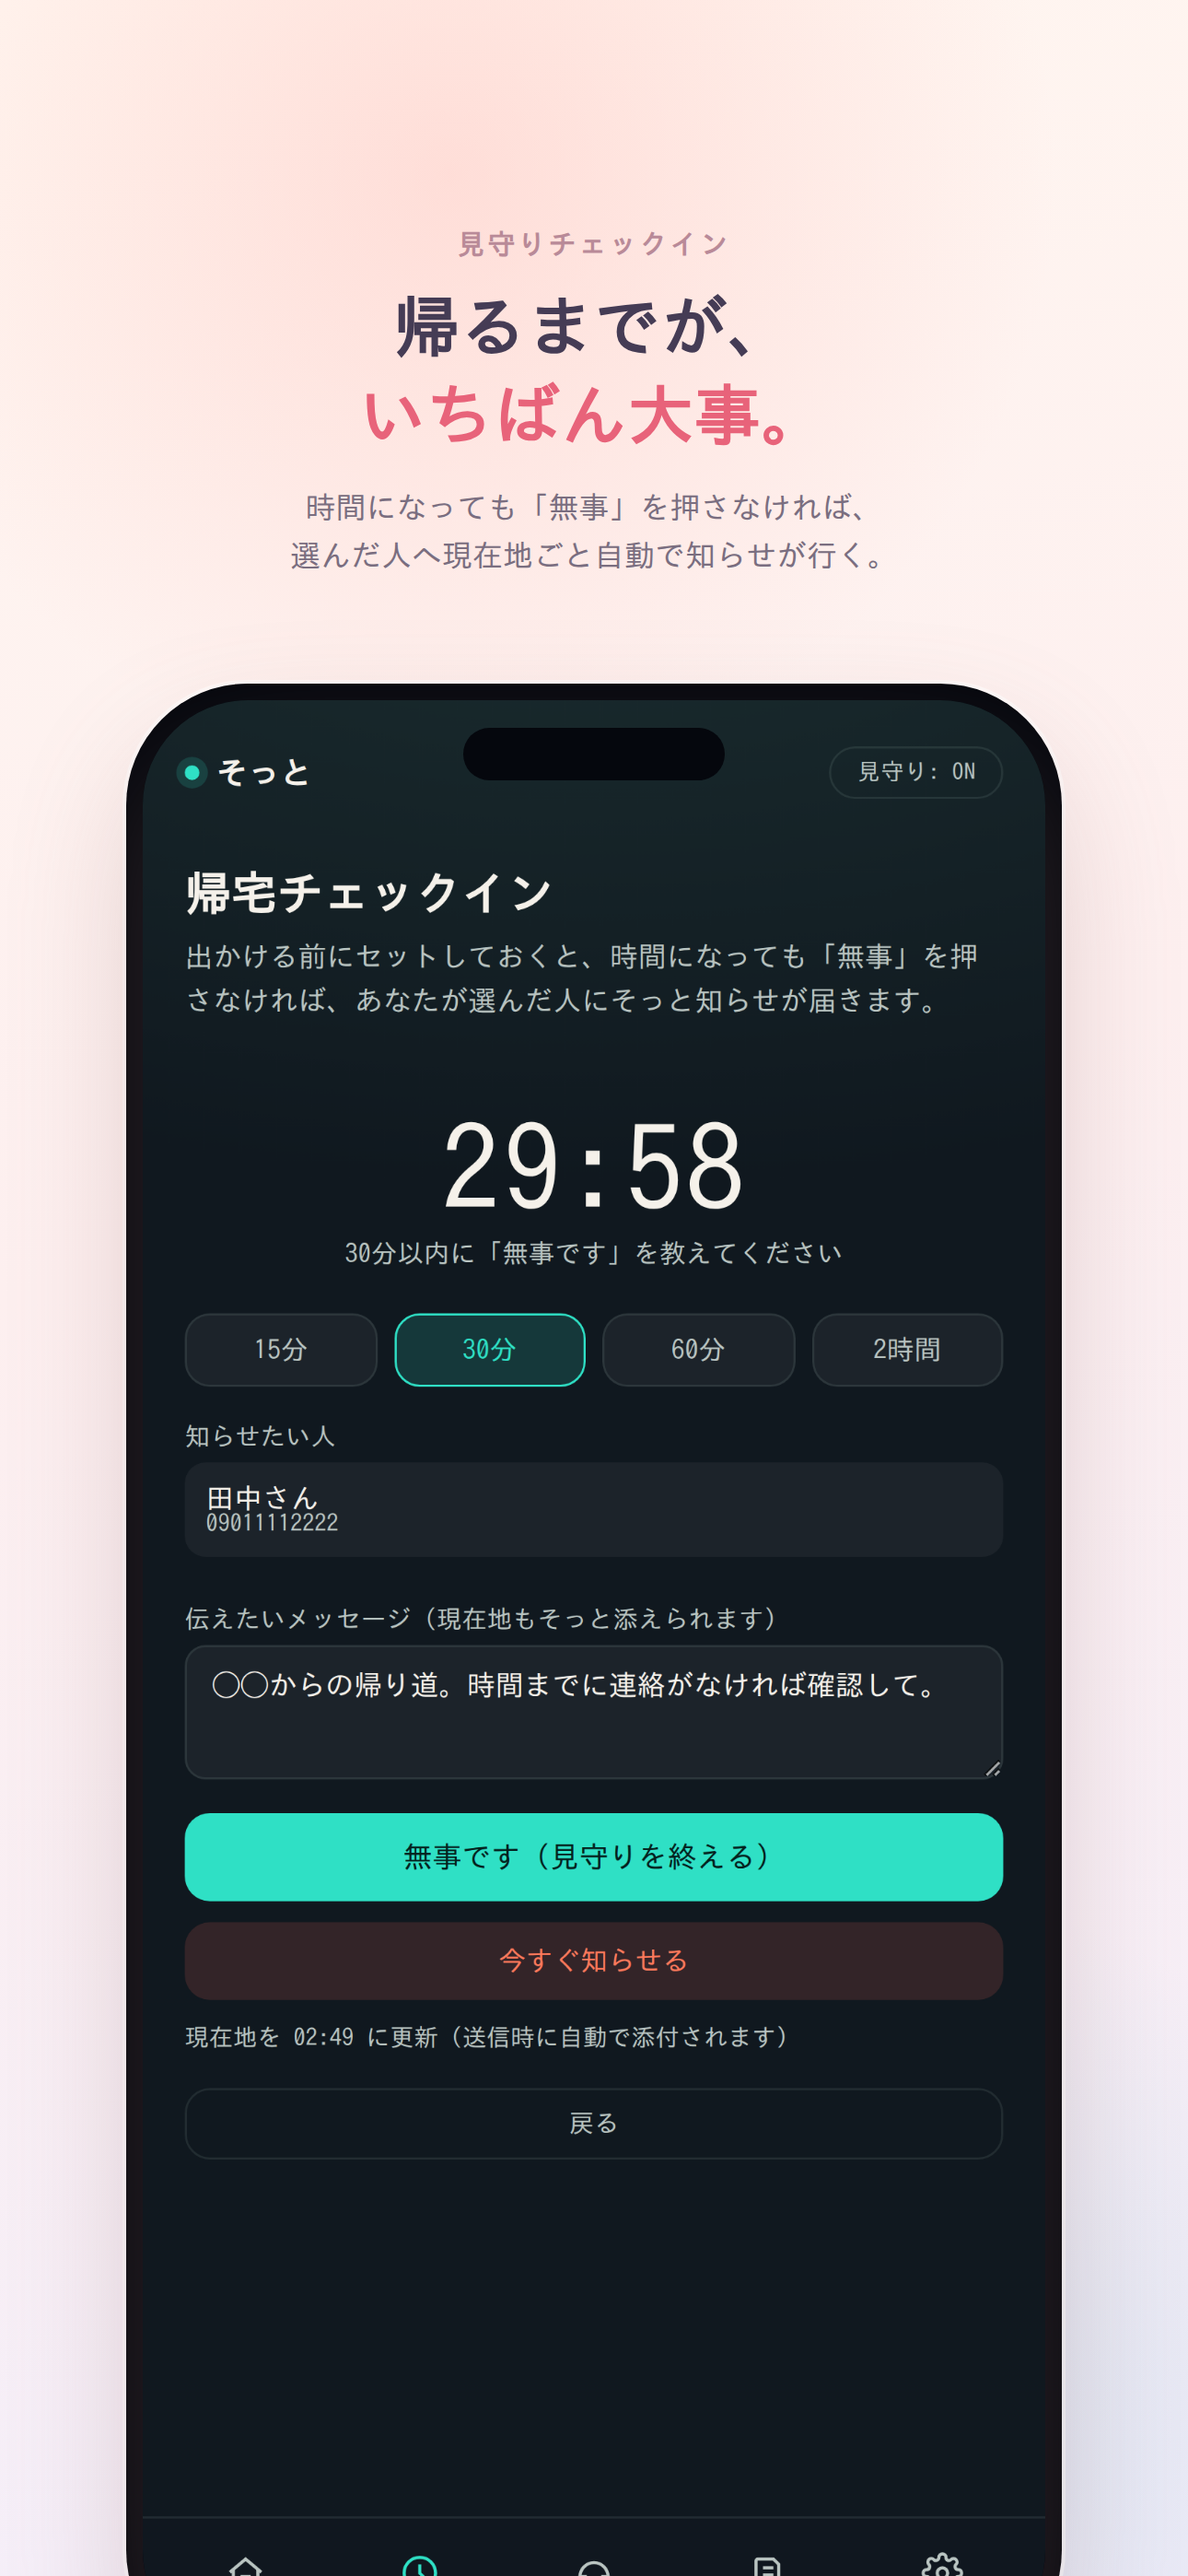
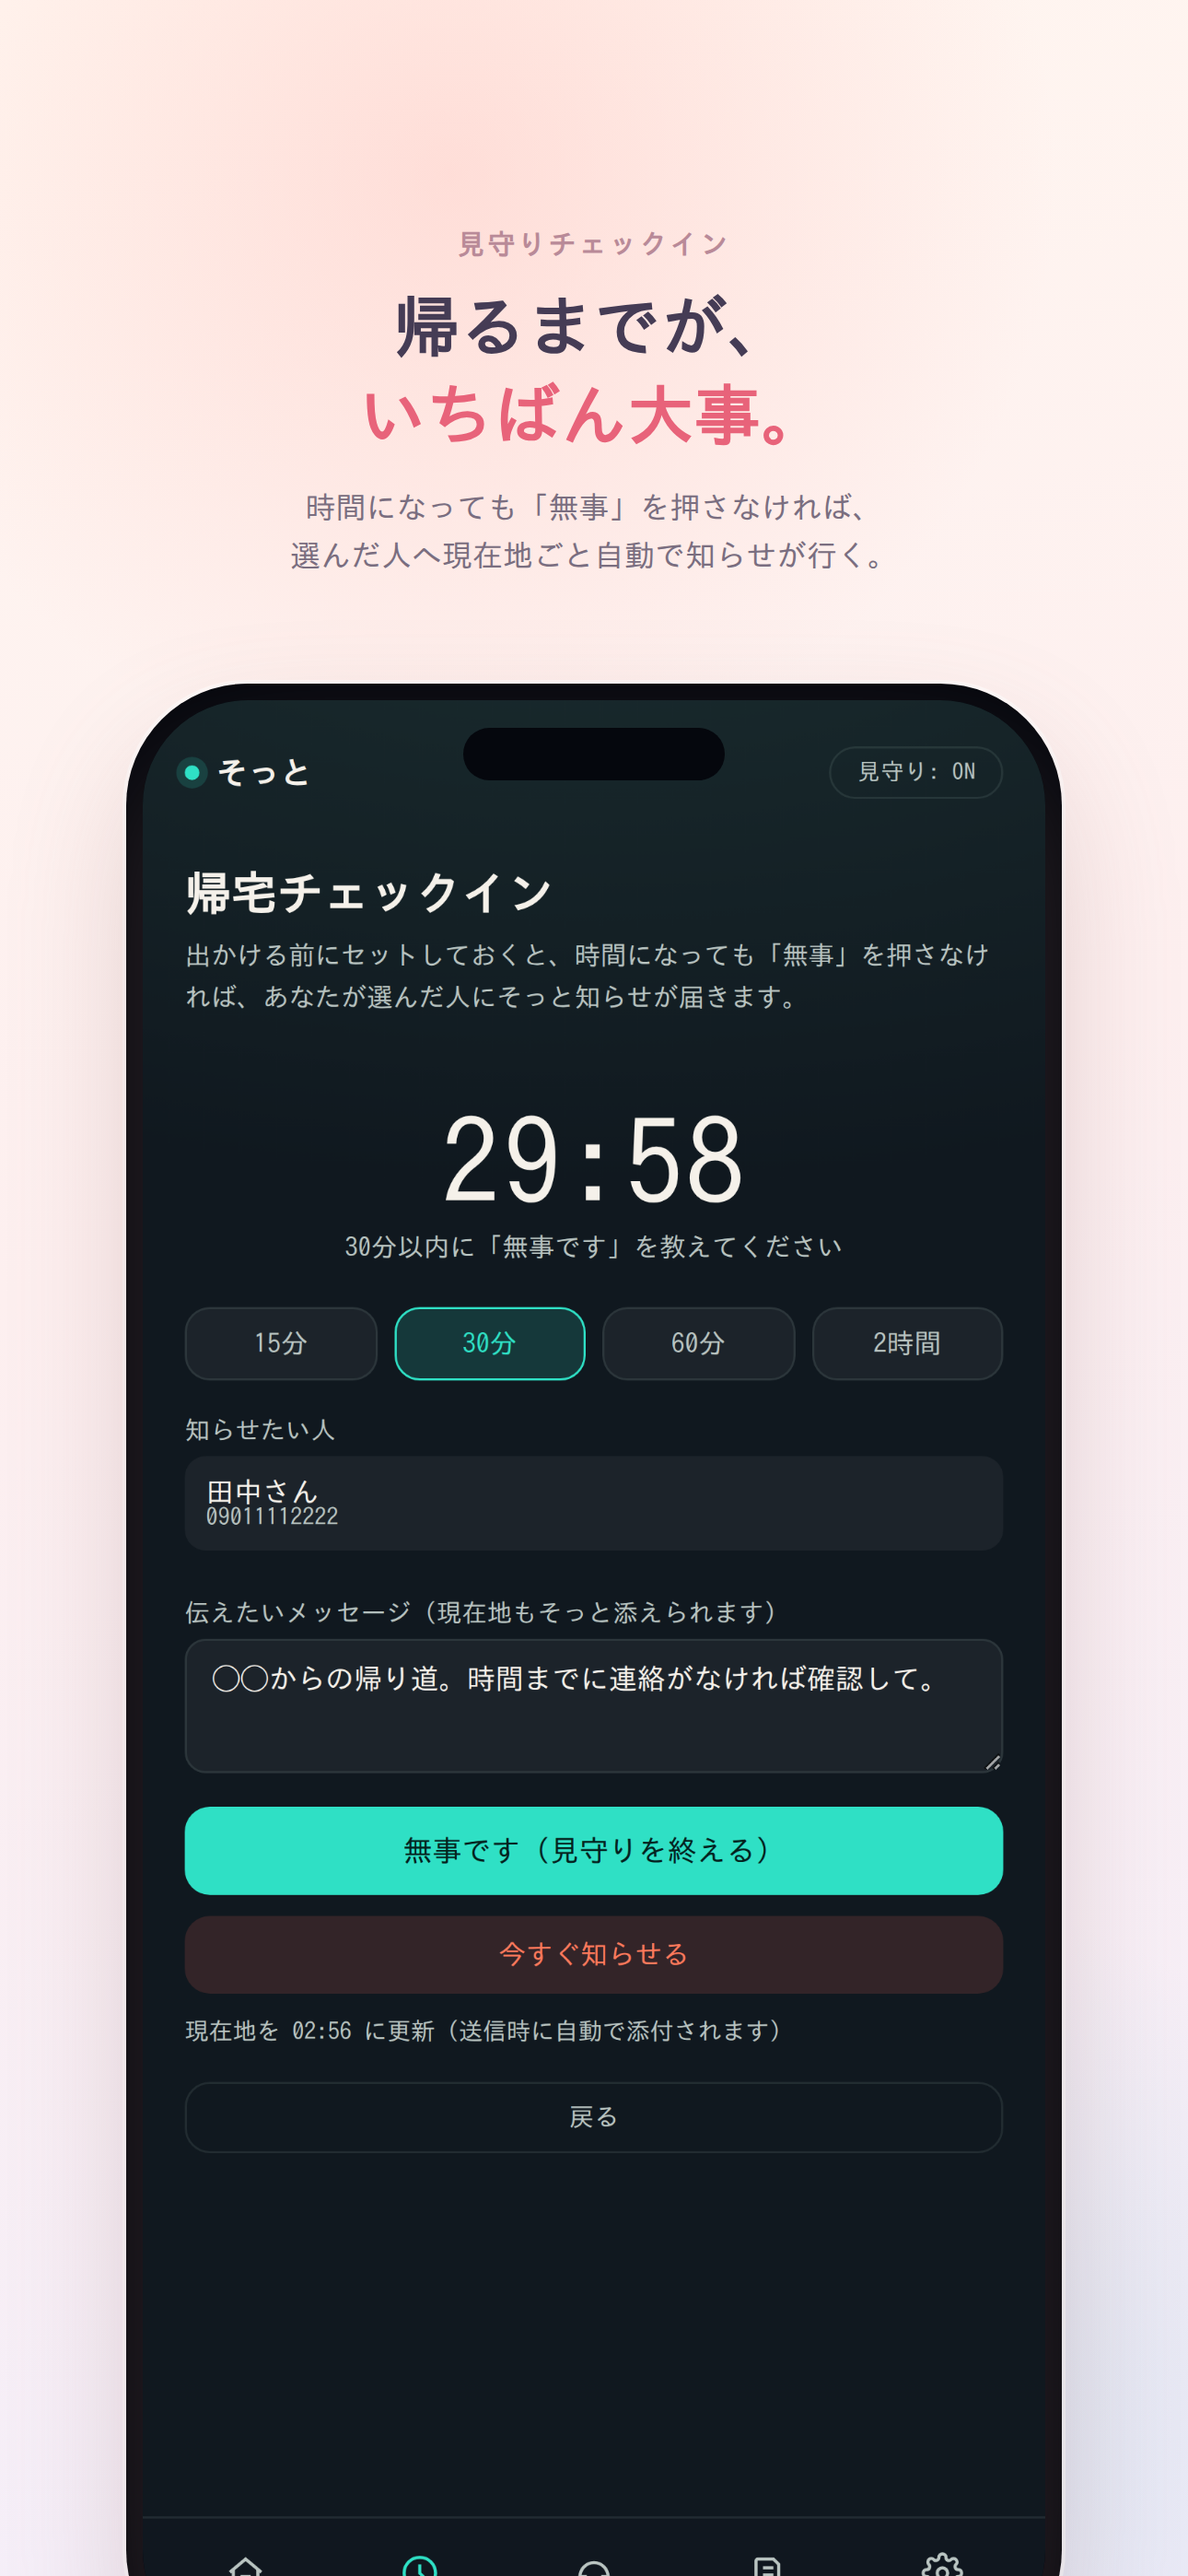
Tighten body-text font size/spacing; restore clause-based line breaks
Tried removing the manual breaks in favor of a smaller font size (per
request to solve this via scaling rather than hardcoded breaks), but
verified it doesn't actually work for Japanese: the browser has no
word-boundary concept, so natural wrapping can still land mid-word
regardless of font size — confirmed a new split ("全国共通番"/"号")
appeared right after removing the breaks. Restored the balanced
clause-boundary <br>/\n breaks, but kept the smaller/tighter font-size
and letter-spacing from that attempt since it's a net improvement on
its own (more compact cards, less wasted vertical space).

diff --git a/prototype/safeline.html b/prototype/safeline.html
@@ -83,7 +83,7 @@
     line-height:1.4;
     margin:18px 0 4px;
   }
-  .hero-sub{color:var(--text-dim); font-size:13.5px; line-height:1.6; margin:0 0 22px;}
+  .hero-sub{color:var(--text-dim); font-size:12.5px; line-height:1.6; margin:0 0 22px; letter-spacing:-0.01em;}
 
   /* ---------- SOS button ---------- */
   .sos-wrap{
@@ -150,7 +150,7 @@
   }
   .card-row{display:flex; align-items:center; justify-content:space-between; gap:12px;}
   .card-title{font-family:'Zen Maru Gothic',sans-serif; font-weight:700; font-size:14.5px;}
-  .card-desc{color:var(--text-dim); font-size:12.5px; margin-top:3px; line-height:1.5;}
+  .card-desc{color:var(--text-dim); font-size:11.5px; margin-top:3px; line-height:1.5; letter-spacing:-0.01em;}
   .chip{
     font-family:'IBM Plex Mono',monospace;
     font-size:11px;
@@ -535,7 +535,7 @@
 
     <a class="res-item card" href="tel:8891">
       <div class="card-title">#8891（はやくワンストップ）</div>
-      <div class="card-desc">性犯罪・性暴力被害者のためのワンストップ支援センター全国共通番号。<br>最寄りのセンターに自動でつながります。<br>通話無料・24時間365日。</div>
+      <div class="card-desc">性犯罪・性暴力被害者のためのワンストップ支援センター全国共通番号。<br>最寄りのセンターに自動でつながります。通話無料・24時間365日。</div>
       <div class="res-meta"><span class="tag">電話</span><span class="tag">24時間</span><span class="tag">無料</span></div>
     </a>
 

diff --git a/SafeLineiOS/SafeLine/Views/ResourcesView.swift b/SafeLineiOS/SafeLine/Views/ResourcesView.swift
@@ -12,7 +12,7 @@ struct ResourcesView: View {
                         .font(.system(size: 22, weight: .semibold, design: .rounded))
                         .foregroundColor(.safeText)
                     Text("一人で抱え込まなくていい場所です。\n年齢・性別を問わず相談できます。あなたは悪くありません。")
-                        .font(.system(size: 14.5, design: .rounded))
+                        .font(.system(size: 13.5, design: .rounded))
                         .foregroundColor(.safeTextDim)
 
                     ForEach(resources) { resource in
@@ -26,7 +26,7 @@ struct ResourcesView: View {
                                     .font(.system(size: 16, weight: .semibold, design: .rounded))
                                     .foregroundColor(.safeText)
                                 Text(resource.desc)
-                                    .font(.system(size: 14, design: .rounded))
+                                    .font(.system(size: 12.5, design: .rounded))
                                     .foregroundColor(.safeTextDim)
                                 HStack(spacing: 6) {
                                     ForEach(resource.tags, id: \.self) { tag in

diff --git a/SafeLineiOS/SafeLine/Views/JournalView.swift b/SafeLineiOS/SafeLine/Views/JournalView.swift
@@ -87,7 +87,7 @@ struct JournalView: View {
                     }
                 }
                 Text("気になったこと、違和感、出来事の日時や状況を、\n思い出せる範囲で少しずつ残せます。\n暗号化してこの端末にだけ保存され、クラウドには送りません。\n誰にも見せなくて大丈夫です。あなたのための記録です。")
-                    .font(.system(size: 14.5, design: .rounded))
+                    .font(.system(size: 13, design: .rounded))
                     .foregroundColor(.safeTextDim)
 
                 DatePicker("日時", selection: $date)

diff --git a/SafeLineiOS/SafeLine/Views/SettingsView.swift b/SafeLineiOS/SafeLine/Views/SettingsView.swift
@@ -26,7 +26,7 @@ struct SettingsView: View {
             Form {
                 Section {
                     Text("このアプリはアカウント登録をせず、\nデータはこの端末にのみ暗号化して保存されます。\nサーバーには何も送信されません。")
-                        .font(.system(size: 13.5, design: .rounded))
+                        .font(.system(size: 12.5, design: .rounded))
                         .foregroundColor(.safeTextDim)
                 }
                 .listRowBackground(Color.clear)

diff --git a/SafeLineiOS/SafeLine/Views/CheckInView.swift b/SafeLineiOS/SafeLine/Views/CheckInView.swift
@@ -26,7 +26,7 @@ struct CheckInView: View {
                         .foregroundColor(.safeText)
 
                     Text("出かける前にセットしておくと、\n時間になっても「無事です」を押さなければ、\nあなたが選んだ人にそっと知らせが届きます。")
-                        .font(.system(size: 14.5, design: .rounded))
+                        .font(.system(size: 13.5, design: .rounded))
                         .foregroundColor(.safeTextDim)
 
                     timerDisplay
